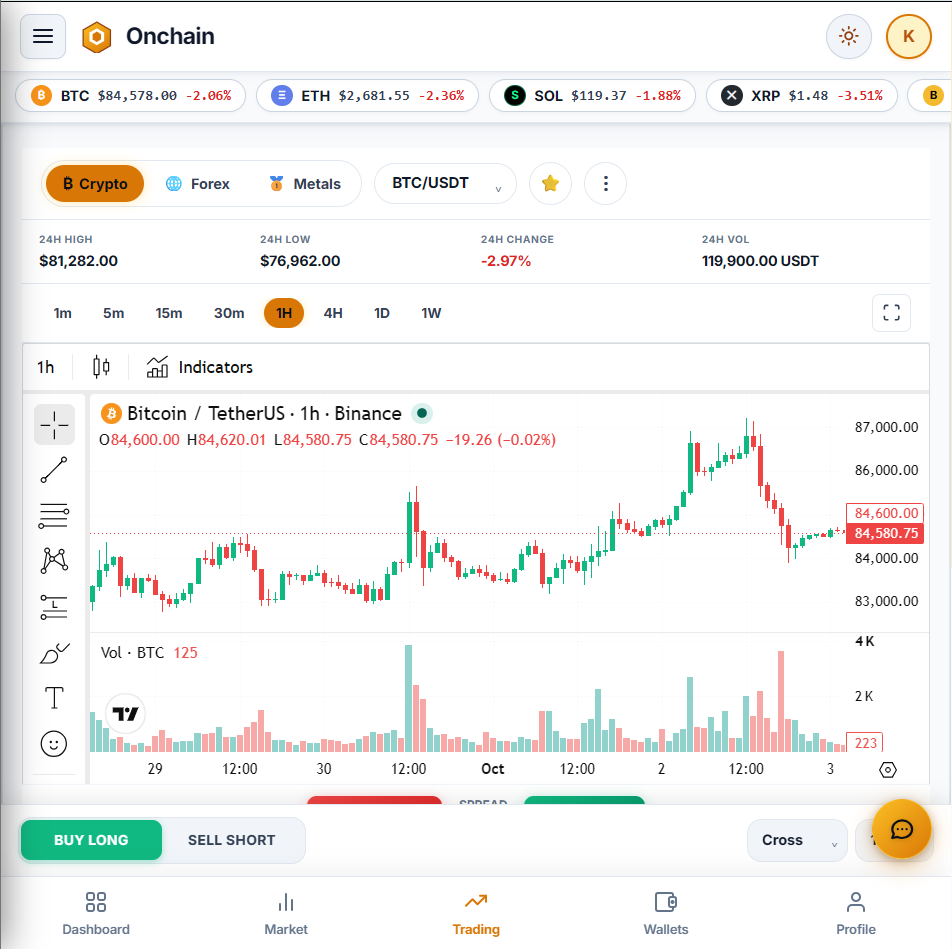
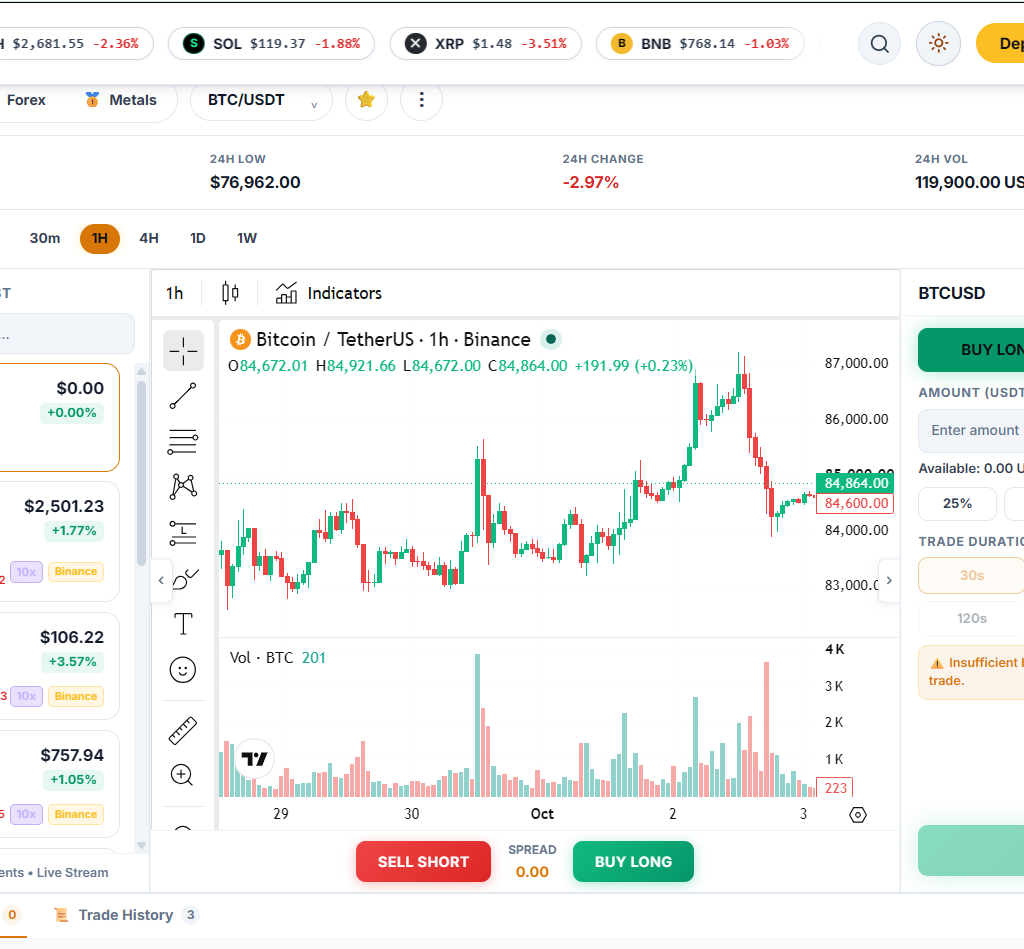
add trade2 project

Changed region(s): [[0.0, 0.0, 1.0, 1.0], [0.792, 0.6112, 0.8529, 0.6417]]

diff --git a/portfolio/app/components/sections/ProjectsSection.vue b/portfolio/app/components/sections/ProjectsSection.vue
@@ -46,53 +46,35 @@
                 class="w-full h-full object-cover object-center"
               />
               <!-- Overlay for text readability -->
-              <div class="absolute inset-0 bg-gradient-to-r from-[#111]/90 via-[#111]/60 to-transparent"></div>
+              <div class="absolute inset-0 bg-gradient-to-b from-black/40 via-transparent to-[#111]/95 pointer-events-none"></div>
             </div>
 
             <!-- Text Content -->
-            <div class="relative z-10 p-5 sm:p-7 flex flex-col h-full">
-              <div class="flex-1">
-                <div class="flex items-center gap-1.5 text-[#D4AF37] text-[9px] font-bold tracking-widest uppercase mb-4">
-                  <svg class="w-2.5 h-2.5" fill="currentColor" viewBox="0 0 24 24"><path d="M12 2L15 9L22 12L15 15L12 22L9 15L2 12L9 9L12 2Z"/></svg>
-                  FEATURED PROJECT
-                </div>
-
-                <h3 class="text-3xl sm:text-5xl font-bold text-white mb-1 leading-none">{{ currentProject.title }}</h3>
-                <h4 class="text-base sm:text-lg font-bold text-[#D4AF37] mb-4">{{ currentProject.subtitle }}</h4>
-                <p class="text-gray-400 text-xs leading-relaxed mb-6 max-w-full sm:max-w-[55%]">{{ currentProject.description }}</p>
-
-                <!-- Stats -->
-                <div class="flex items-center gap-0 mb-6 max-w-full overflow-x-auto pb-2 sm:pb-0">
-                  <div v-for="(stat, i) in currentProject.stats" :key="i" class="flex items-center shrink-0">
-                    <div class="text-center px-3 sm:px-4 py-2 bg-[#111]/70 border border-white/5 rounded-lg backdrop-blur-sm" :class="i === 0 ? 'rounded-r-none' : i === currentProject.stats.length - 1 ? 'rounded-l-none border-l-0' : 'rounded-none border-l-0'">
-                      <p class="font-bold text-xs sm:text-sm" :class="i === currentProject.stats.length - 1 ? 'text-[#D4AF37]' : 'text-white'">{{ stat.value }}</p>
-                      <p class="text-[8px] sm:text-[9px] uppercase tracking-wider mt-0.5" :class="i === currentProject.stats.length - 1 ? 'text-[#D4AF37]/70' : 'text-gray-500'">{{ stat.label }}</p>
-                    </div>
-                  </div>
-                </div>
-
-                <!-- Action Buttons -->
-                <div class="flex gap-3">
-                  <a v-if="currentProject.slug" :href="`/projects/${currentProject.slug}`" class="px-5 py-2 bg-gradient-to-r from-[#e5c158] to-[#b89430] hover:brightness-110 text-black font-semibold rounded-lg text-xs flex items-center gap-2 transition-all">
-                    Live Demo <svg class="w-3 h-3 -rotate-45" fill="none" stroke="currentColor" viewBox="0 0 24 24"><path stroke-linecap="round" stroke-linejoin="round" stroke-width="2" d="M14 5l7 7m0 0l-7 7m7-7H3"/></svg>
-                  </a>
-                  <a v-else href="#" class="px-5 py-2 bg-gradient-to-r from-[#e5c158] to-[#b89430] hover:brightness-110 text-black font-semibold rounded-lg text-xs flex items-center gap-2 transition-all">
-                    Coming Soon <svg class="w-3 h-3" fill="none" stroke="currentColor" viewBox="0 0 24 24"><path stroke-linecap="round" stroke-linejoin="round" stroke-width="2" d="M12 8v4l3 3m6-3a9 9 0 11-18 0 9 9 0 0118 0z"/></svg>
-                  </a>
-                  <a :href="currentProject.github" class="px-5 py-2 border border-white/10 text-white font-medium rounded-lg text-xs flex items-center gap-2 bg-[#111]/80 hover:bg-[#1a1a1a] transition-colors">
-                    <svg class="w-3.5 h-3.5" fill="currentColor" viewBox="0 0 24 24"><path d="M12 0c-6.626 0-12 5.373-12 12 0 5.302 3.438 9.8 8.207 11.387.599.111.793-.261.793-.577v-2.234c-3.338.726-4.033-1.416-4.033-1.416-.546-1.387-1.333-1.756-1.333-1.756-1.089-.745.083-.729.083-.729 1.205.084 1.839 1.237 1.839 1.237 1.07 1.834 2.807 1.304 3.492.997.107-.775.418-1.305.762-1.604-2.665-.305-5.467-1.334-5.467-5.931 0-1.311.469-2.381 1.236-3.221-.124-.303-.535-1.524.117-3.176 0 0 1.008-.322 3.301 1.23.957-.266 1.983-.399 3.003-.404 1.02.005 2.047.138 3.006.404 2.291-1.552 3.297-1.23 3.297-1.23.653 1.653.242 2.874.118 3.176.77.84 1.235 1.911 1.235 3.221 0 4.609-2.807 5.624-5.479 5.921.43.372.823 1.102.823 2.222v3.293c0 .319.192.694.801.576 4.765-1.589 8.199-6.086 8.199-11.386 0-6.627-5.373-12-12-12z"/></svg>
-                    View on GitHub
-                  </a>
-                </div>
+            <div class="relative z-10 p-5 sm:p-7 flex flex-col h-full justify-between pointer-events-none">
+              <!-- Top Label -->
+              <div class="flex items-center gap-1.5 text-[#D4AF37] text-[10px] font-bold tracking-widest uppercase drop-shadow-md">
+                <svg class="w-3 h-3" fill="currentColor" viewBox="0 0 24 24"><path d="M12 2L15 9L22 12L15 15L12 22L9 15L2 12L9 9L12 2Z"/></svg>
+                FEATURED PROJECT
               </div>
 
-              <!-- Tech Stack at bottom -->
-              <div class="border-t border-white/5 pt-4 mt-4">
-                <p class="text-[#D4AF37] text-[8px] font-bold tracking-widest uppercase mb-3">TECHNOLOGIES USED</p>
-                <div class="flex flex-wrap gap-1.5">
-                  <div v-for="tech in currentProject.tech" :key="tech.name" class="px-2.5 py-1.5 rounded-md bg-[#111] border border-white/5 flex items-center gap-1.5">
-                    <span class="text-[10px] font-medium" :style="{ color: tech.color }">{{ tech.icon }}</span>
-                    <span class="text-[10px] text-gray-300">{{ tech.name }}</span>
+              <!-- Bottom Info (Title & Tech) -->
+              <div class="pointer-events-auto">
+                <a v-if="currentProject.slug" :href="`/projects/${currentProject.slug}`" class="block group/link mb-4">
+                  <h3 class="text-3xl sm:text-5xl font-bold text-white leading-none drop-shadow-lg group-hover/link:text-[#e5c158] transition-colors flex items-center gap-3">
+                    {{ currentProject.title }}
+                    <svg class="w-6 h-6 opacity-0 group-hover/link:opacity-100 transition-opacity -rotate-45" fill="none" stroke="currentColor" viewBox="0 0 24 24"><path stroke-linecap="round" stroke-linejoin="round" stroke-width="2" d="M14 5l7 7m0 0l-7 7m7-7H3"/></svg>
+                  </h3>
+                  <h4 class="text-sm sm:text-base font-bold text-[#D4AF37] mt-2 drop-shadow-md">{{ currentProject.subtitle }}</h4>
+                </a>
+
+                <!-- Tech Stack at bottom -->
+                <div class="border-t border-white/10 pt-4">
+                  <p class="text-[#D4AF37] text-[8px] font-bold tracking-widest uppercase mb-3">TECHNOLOGIES USED</p>
+                  <div class="flex flex-wrap gap-1.5">
+                    <div v-for="tech in currentProject.tech" :key="tech.name" class="px-2.5 py-1.5 rounded-md bg-black/50 backdrop-blur-sm border border-white/10 flex items-center gap-1.5">
+                      <span class="text-[10px] font-medium" :style="{ color: tech.color }">{{ tech.icon }}</span>
+                      <span class="text-[10px] text-gray-200">{{ tech.name }}</span>
+                    </div>
                   </div>
                 </div>
               </div>
